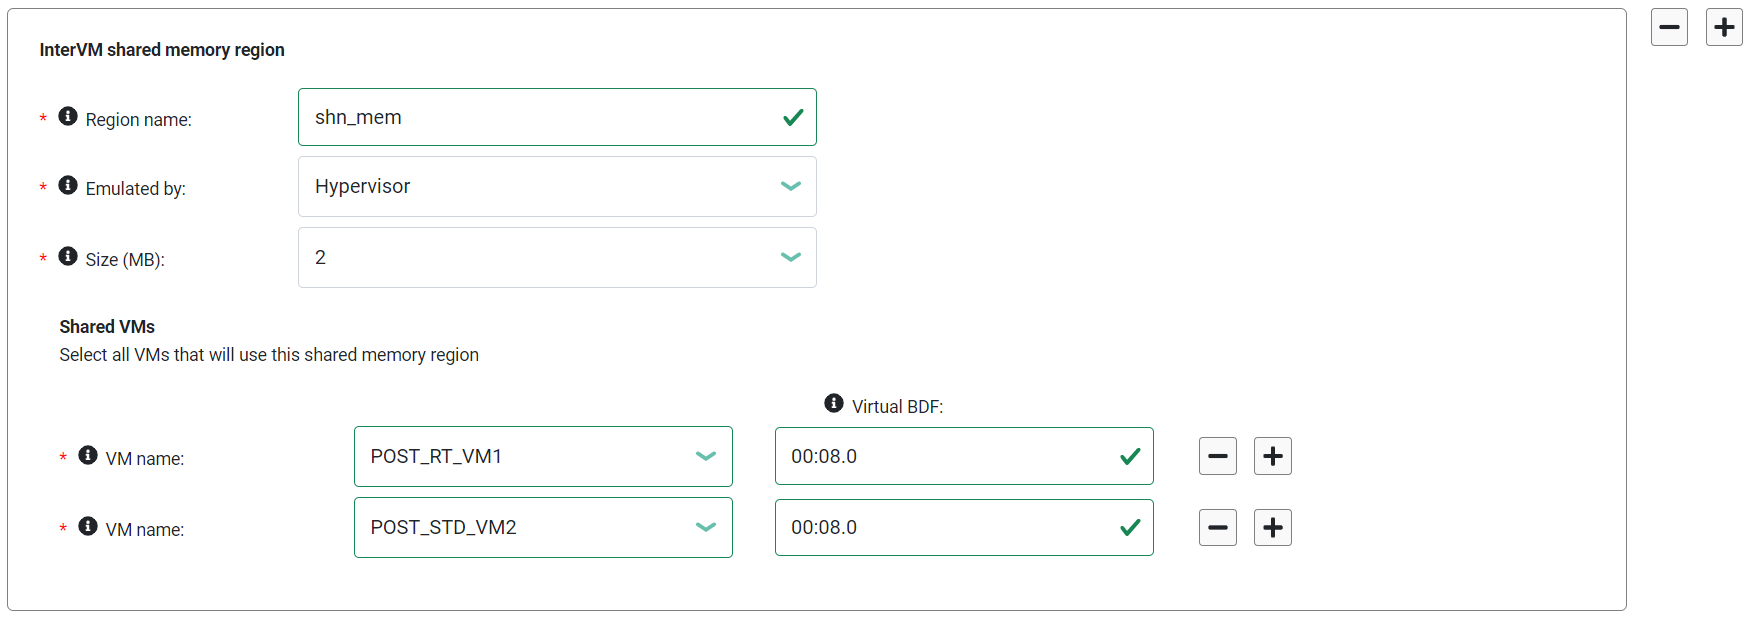
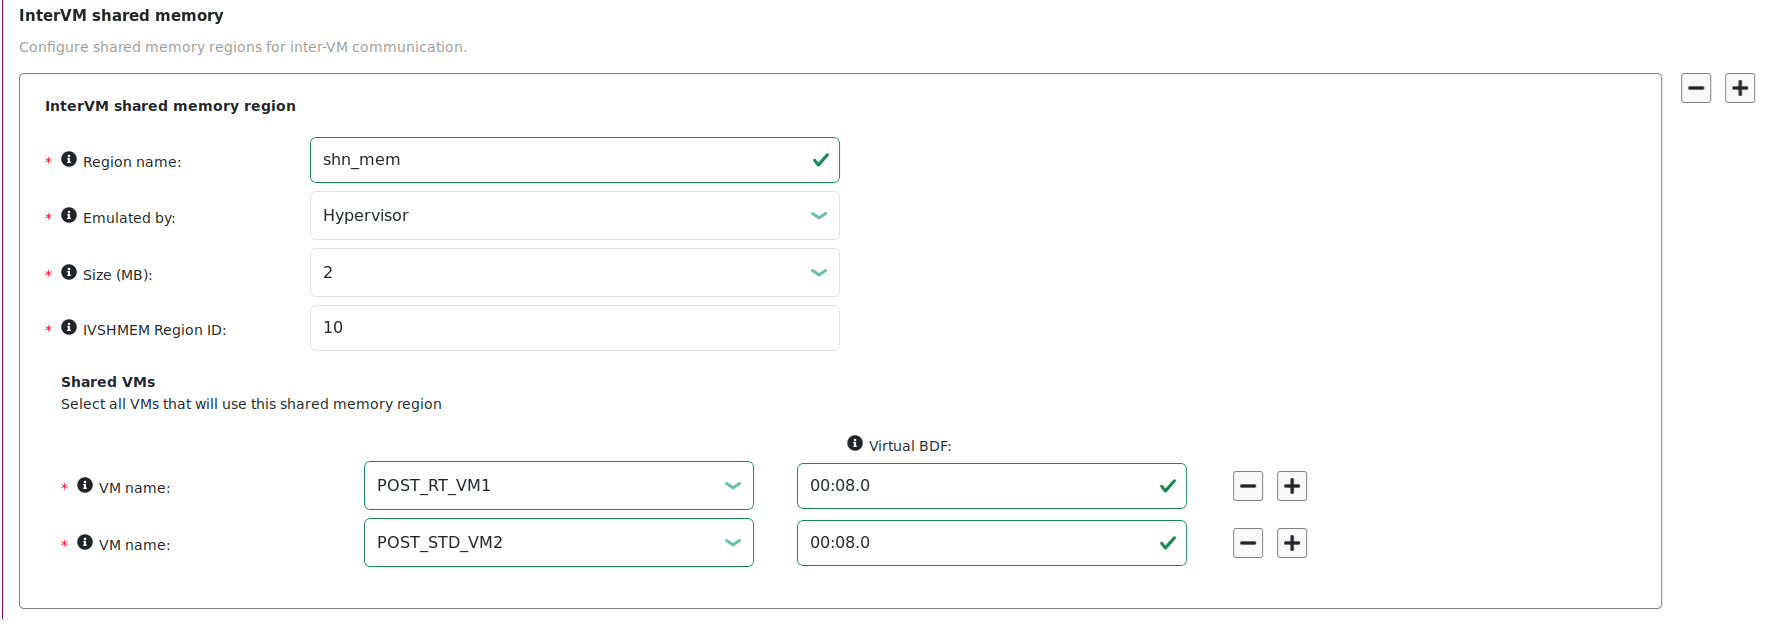
doc: add IVSHMEM region ID support
Add guide to configure IVSHMEM Region ID.

diff --git a/doc/tutorials/enable_ivshmem.rst b/doc/tutorials/enable_ivshmem.rst
@@ -67,6 +67,9 @@ For the shared memory region:
 #. Enter a name for the shared memory region.
 #. Select the source of the emulation, either Hypervisor or Device Model.
 #. Select the size of the shared memory region.
+#. **Enter shared memory region ID, which can be in hexadecimal or decimal format**.
+    .. note::
+       Default value is 0 and IDs in 0x001 ~ 0xFFF  are reserved, 0x1000 ~ 0xFFFF are available.
 #. Select at least two VMs that can use the shared memory region.
 #. Enter a virtual Board:Device.Function (BDF) address for each VM or leave it
    blank. If the field is blank, the tool provides an address when the
